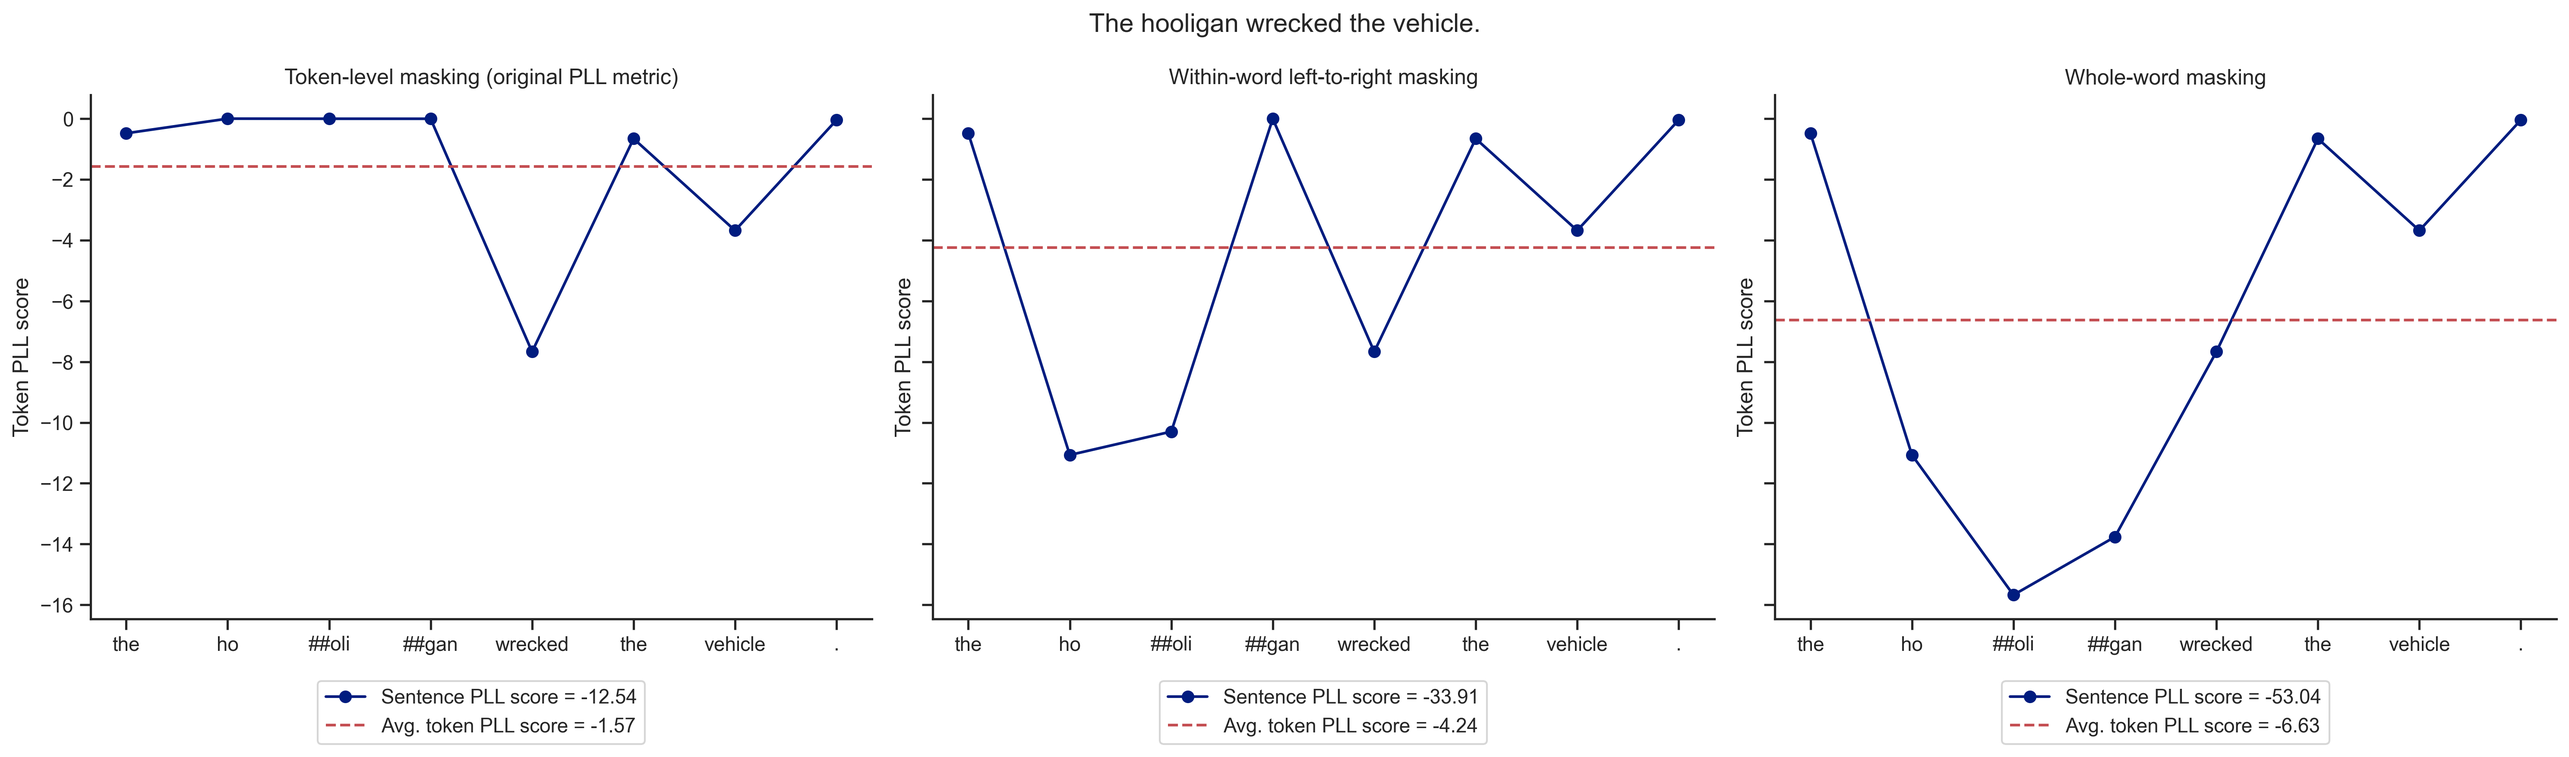
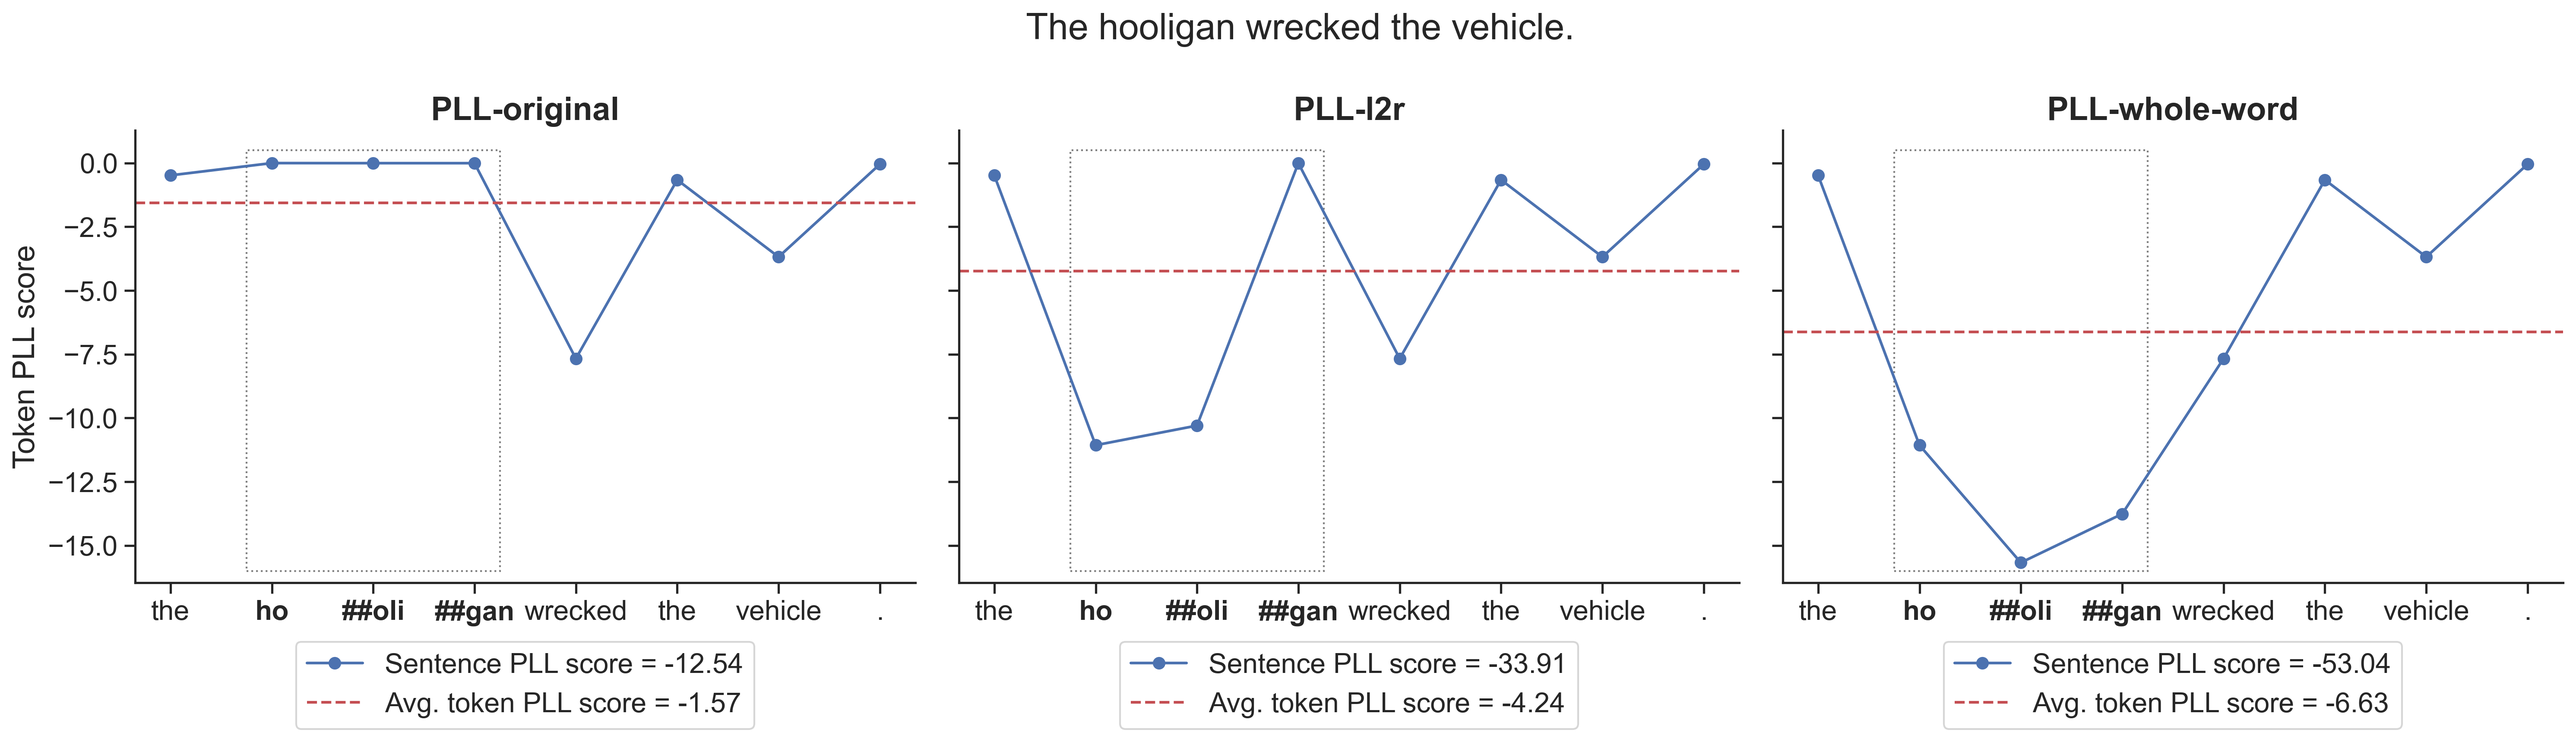
update result fig 1

diff --git a/carina/motivationForAdaptation_runScript.py b/carina/motivationForAdaptation_runScript.py
@@ -1,10 +1,15 @@
 from minicons import scorer
 import os
 
+WHICH_PLOT = "side-by-side"
+
 stimuli = ['The hooligan wrecked the vehicle.',
            'The vehicle wrecked the hooligan.',
            'The vehicle was wrecked by the hooligan.',
            'The hooligan was wrecked by the vehicle.']
+
+out_dir = "results/motivationForAdaptation/"
+os.makedirs(out_dir, exist_ok=True)
 
 
 ##################
@@ -37,150 +42,191 @@ custom_params = {"axes.spines.right": False,
                  'xtick.bottom': True,
                 'grid.linestyle': "" #gets rid of horizontal lines
                 }
-sns.set_theme(font_scale=1, style="white", rc=custom_params)
-plt.style.use('seaborn-dark-palette')
+sns.set_theme(font_scale=1.4, style="white", rc=custom_params)
+#plt.style.use('seaborn-dark-palette')
+
+import matplotlib.patches as patches
 
 ###################
 ## Individual plots
 ###################
 
-for sent_i, sent in enumerate(stimuli):
-    for which_masking in ["original", "within_word_l2r", "within_word_mlm"]:
-        print(f"which_masking={which_masking} | {sent}")
-        scores = mlm_model.token_score(sent, which_masking=which_masking)[0]
-        for score in scores:
-            print(f"{score[0]} | {score[1]}")
-        x = [elm[0] for elm in scores]
-        y = [elm[1] for elm in scores]
-        avg = np.mean(y)
+if WHICH_PLOT == "individual":
+    for sent_i, sent in enumerate(stimuli):
+        for which_masking in ["original", "within_word_l2r", "within_word_mlm"]:
+            print(f"which_masking={which_masking} | {sent}")
+            scores = mlm_model.token_score(sent, which_masking=which_masking)[0]
+            for score in scores:
+                print(f"{score[0]} | {score[1]}")
+            x = [elm[0] for elm in scores]
+            y = [elm[1] for elm in scores]
+            avg = np.mean(y)
 
-        fig, ax = plt.subplots()
-        plt.plot(y, marker="o", label=f"Sentence PLL score = {round(sum(y),2)}")
-        plt.xticks(np.arange(len(x)), np.arange(1, len(x) + 1))
-        ax.set_xticklabels(x)
-        plt.axhline(y=avg, color='r', linestyle='--', label=f"Avg. token PLL score = {round(avg, 2)}")
-        plt.legend(loc='upper center', bbox_to_anchor=(0.5, -0.1), fancybox=True, shadow=False, ncol=1)
-        plt.ylabel('Token PLL score')
-        if which_masking == "within_word_l2r":
-            plt.title("Adapted PLL metric with left-to-right word token masking")
-            savesuffix = 'adaptedPLL_l2r'
-        elif which_masking == "within_word_mlm":
-            plt.title("Adapted PLL metric with whole-word masking")
-            savesuffix = 'adaptedPLL_mlm'
-        else:
-            plt.title("Token-level masking (original PLL metric)")
-            savesuffix = 'originalPLL'
-        fig.tight_layout()
+            fig, ax = plt.subplots()
+            plt.plot(y, marker="o", label=f"Sentence PLL score = {round(sum(y),2)}")
+            plt.xticks(np.arange(len(x)), np.arange(1, len(x) + 1))
+            ax.set_xticklabels(x)
+            plt.axhline(y=avg, color='r', linestyle='--', label=f"Avg. token PLL score = {round(avg, 2)}")
+            plt.legend(loc='upper center', bbox_to_anchor=(0.5, -0.1), fancybox=True, shadow=False, ncol=1)
+            plt.ylabel('Token PLL score')
+            if which_masking == "within_word_l2r":
+                plt.title("Adapted PLL metric with left-to-right word token masking")
+                savesuffix = 'adaptedPLL_l2r'
+            elif which_masking == "within_word_mlm":
+                plt.title("Adapted PLL metric with whole-word masking")
+                savesuffix = 'adaptedPLL_mlm'
+            else:
+                plt.title("Token-level masking (original PLL metric)")
+                savesuffix = 'originalPLL'
+            fig.tight_layout()
 
-        out_dir = "results/motivationForAdaptation/"
-        os.makedirs(out_dir, exist_ok=True)
-        filename = f'{out_dir}/sent{sent_i+1}_{savesuffix}.png'
-        plt.savefig(filename, dpi=300, bbox_inches='tight')
-        plt.show()
-        print('\n')
+            filename = f'{out_dir}/sent{sent_i+1}_{savesuffix}.png'
+            plt.savefig(filename, dpi=300, bbox_inches='tight')
+            plt.show()
+            print('\n')
 
 ###################
 ## Subplots fig.
 ###################
 
-for sent_i, sent in enumerate(stimuli):
-    fig, axs = plt.subplots(1, 3, figsize=(20, 6), sharey=True)
-    for i, which_masking in enumerate(["original", "within_word_l2r", "within_word_mlm"]):
-        scores = mlm_model.token_score(sent, which_masking=which_masking)[0]
-        x = [elm[0] for elm in scores]
-        y = [elm[1] for elm in scores]
-        avg = np.mean(y)
+elif WHICH_PLOT == "side-by-side":
+    for sent_i, sent in enumerate(stimuli):
+        fig, axs = plt.subplots(1, 3, figsize=(20, 6), sharey=True)
+        ys = []
+        for i, which_masking in enumerate(["original", "within_word_l2r", "within_word_mlm"]):
+            scores = mlm_model.token_score(sent, which_masking=which_masking)[0]
+            x = [elm[0] for elm in scores]
+            y = [elm[1] for elm in scores]
+            ys.append(y)
+            avg = np.mean(y)
 
-        axs[i].plot(y, marker="o", label=f"Sentence PLL score = {round(sum(y), 2)}")
-        axs[i].set_xticks(np.arange(len(x)), np.arange(1, len(x) + 1), minor=False)
-        axs[i].set_xticklabels(x)
-        axs[i].axhline(y=avg, color='r', linestyle='--', label=f"Avg. token PLL score = {round(avg, 2)}")
-        axs[i].legend(loc='upper center', bbox_to_anchor=(0.5, -0.1), fancybox=True, shadow=False, ncol=1)
-        axs[i].set_ylabel('Token PLL score')
-        if which_masking == "within_word_l2r":
-            axs[i].set_title("Within-word left-to-right masking")
-            savesuffix = 'adaptedPLL_l2r'
-        elif which_masking == "within_word_mlm":
-            axs[i].set_title(f"Whole-word masking")
-            savesuffix = 'adaptedPLL_mlm'
-        else:
-            axs[i].set_title("Token-level masking (original PLL metric)")
-            savesuffix = 'originalPLL'
-    fig.suptitle(f"{sent}")
-    fig.tight_layout()
+            axs[i].plot(y, marker="o", label=f"Sentence PLL score = {round(sum(y), 2)}")
+            axs[i].set_xticks(np.arange(len(x)), np.arange(1, len(x) + 1), minor=False)
+            axs[i].set_xticklabels(x)
+            axs[i].axhline(y=avg, color='r', linestyle='--', label=f"Avg. token PLL score = {round(avg, 2)}")
+            axs[i].legend(loc='upper center', bbox_to_anchor=(0.5, -0.1), fancybox=True, shadow=False, ncol=1)
+            if i == 0:
+                axs[i].set_ylabel('Token PLL score')
+            else:
+                axs[i].set_ylabel('')
+            if which_masking == "within_word_l2r":
+                axs[i].set_title("PLL-l2r", fontsize=18, fontweight="bold")
+                savesuffix = 'adaptedPLL_l2r'
+            elif which_masking == "within_word_mlm":
+                axs[i].set_title(f"PLL-whole-word", fontsize=18, fontweight="bold")
+                savesuffix = 'adaptedPLL_mlm'
+            else:
+                axs[i].set_title("PLL-original", fontsize=18, fontweight="bold")
+                savesuffix = 'originalPLL'
 
-    out_dir = "results/motivationForAdaptation/"
-    os.makedirs(out_dir, exist_ok=True)
-    filename = f'{out_dir}/sent{sent_i + 1}_combined.png'
-    plt.savefig(filename, dpi=300, bbox_inches='tight')
-    plt.show()
-    print('\n')
+        # overlay shared with different color
+        # Find the indices where the three plots differ
+        indices = [i for y1 in ys for y2 in ys for i, a in enumerate(zip(y1, y2)) if a[0] != a[1]]
+        indices = sorted(np.unique(indices))
+
+        not_shared_x = [elm if elm in indices else None for elm in np.arange(len(x))]
+        not_shared_ys = []
+        for ind, y in enumerate(ys):
+            not_shared_ys.append([y[i] if i or i == 0 else None for i in not_shared_x])
+
+        for ind, ax in enumerate(axs):
+            #ax.plot(not_shared_x, not_shared_ys[ind], marker="o", color='r')
+
+            ymin, ymax = axs[ind].get_ylim()
+            x_ind = np.arange(1, len(x) + 1)
+            # Create a rectangle patch for the box
+            # matplotlib.patches.Rectangle(xy, width, height)
+            rect = patches.Rectangle([x_ind[indices[0]] - 1.25, int(ymin)],
+                                     indices[-1] - indices[0] + 0.5,
+                                     int(ymax) + 0.5 - int(ymin),
+                                     linewidth=1, edgecolor='gray', facecolor='none', ls=':')
+            ax.add_patch(rect)
+
+            bold_x = [x[i] if not_shared_x[i] else None for i in range(len(not_shared_x))]
+            for lab in ax.get_xticklabels():
+                if lab.get_text() in bold_x:
+                    lab.set_fontweight('bold')
+
+        plt.ylim(ymin, ymax + 0.5)
+
+        fig.suptitle(f"{sent}")
+        fig.tight_layout()
+
+        out_dir = "results/motivationForAdaptation/"
+        os.makedirs(out_dir, exist_ok=True)
+        filename = f'{out_dir}/sent{sent_i + 1}_combined.png'
+        plt.savefig(filename, dpi=300, bbox_inches='tight')
+        plt.show()
+        print('\n')
 
 ###################
 ## Overlaid plots
 ###################
 
-import matplotlib.patches as patches
+elif WHICH_PLOT == "overlaid":
 
-marker_dict = {
-    "original" : "o",
-    "within_word_l2r" : "P",
-    "within_word_mlm" : "p"
-}
+    marker_dict = {
+        "original" : "o",
+        "within_word_l2r" : "P",
+        "within_word_mlm" : "p"
+    }
 
-for sent_i, sent in enumerate(stimuli):
-    fig, ax = plt.subplots()
-    ys = []
-    for i, which_masking in enumerate(["original", "within_word_l2r", "within_word_mlm"]):
-        scores = mlm_model.token_score(sent, which_masking=which_masking)[0]
-        x = [elm[0] for elm in scores]
-        y = [elm[1] for elm in scores]
-        ys.append(y)
+    for sent_i, sent in enumerate(stimuli):
+        fig, ax = plt.subplots()
+        ys = []
+        for i, which_masking in enumerate(["original", "within_word_l2r", "within_word_mlm"]):
+            scores = mlm_model.token_score(sent, which_masking=which_masking)[0]
+            x = [elm[0] for elm in scores]
+            y = [elm[1] for elm in scores]
+            ys.append(y)
 
-        # Plot the data
-        if which_masking == "within_word_l2r":
-            label = "Within-word left-to-right masking"
-        elif which_masking == "within_word_mlm":
-            label = "Whole-word masking"
-        else:
-            label = "Original PLL metric (token-level masking)"
+            # Plot the data
+            if which_masking == "within_word_l2r":
+                label = "Within-word left-to-right masking"
+            elif which_masking == "within_word_mlm":
+                label = "Whole-word masking"
+            else:
+                label = "Original PLL metric (token-level masking)"
 
-        ax.plot(y, marker=marker_dict[which_masking], label=f"{label} | Sentence PLL score = {round(sum(y), 2)}")
+            ax.plot(y, marker=marker_dict[which_masking], label=f"{label} | Sentence PLL score = {round(sum(y), 2)}")
 
-    plt.xticks(np.arange(len(x)), np.arange(1, len(x) + 1))
-    ax.set_xticklabels(x)
-    plt.ylabel('Token PLL score')
+        plt.xticks(np.arange(len(x)), np.arange(1, len(x) + 1))
+        ax.set_xticklabels(x)
+        plt.ylabel('Token PLL score')
 
-    # Find the indices where the three plots differ
-    indices = [i for y1 in ys for y2 in ys for i, a in enumerate(zip(y1, y2)) if a[0] != a[1]]
-    indices = sorted(np.unique(indices))
+        # Find the indices where the three plots differ
+        indices = [i for y1 in ys for y2 in ys for i, a in enumerate(zip(y1, y2)) if a[0] != a[1]]
+        indices = sorted(np.unique(indices))
 
-    shared_x = [elm if elm not in indices else None for elm in np.arange(len(x))]
-    shared_y = [y[i] if i or i == 0 else None for i in shared_x]
-    plt.plot(shared_x, shared_y, color='gray', marker="s", label="Token scores shared across metrics")
+        shared_x = [elm if elm not in indices else None for elm in np.arange(len(x))]
+        shared_y = [y[i] if i or i == 0 else None for i in shared_x]
+        plt.plot(shared_x, shared_y, color='gray', marker="s", label="Token scores shared across metrics")
 
-    ymin, ymax = ax.get_ylim()
-    x = np.arange(1, len(x) + 1)
+        ymin, ymax = ax.get_ylim()
+        x = np.arange(1, len(x) + 1)
 
-    # Create a rectangle patch for the box
-    # matplotlib.patches.Rectangle(xy, width, height)
-    rect = patches.Rectangle([x[indices[0]] - 2.25 , int(ymin)],
-                             indices[-1] - indices[0] + 2.5,
-                             int(ymax) + 0.5 - int(ymin),
-                             linewidth=1, edgecolor='k', facecolor='none', ls='--')
+        # Create a rectangle patch for the box
+        # matplotlib.patches.Rectangle(xy, width, height)
+        rect = patches.Rectangle([x[indices[0]] - 2.25 , int(ymin)],
+                                 indices[-1] - indices[0] + 2.5,
+                                 int(ymax) + 0.5 - int(ymin),
+                                 linewidth=1, edgecolor='k', facecolor='none', ls='--')
 
-    # Add the rectangle patch to the plot
-    ax.add_patch(rect)
-    plt.ylim(ymin, ymax + 0.5)
+        # Add the rectangle patch to the plot
+        ax.add_patch(rect)
+        plt.ylim(ymin, ymax + 0.5)
 
-    # Add legend & title
-    #ax.legend(loc='upper center', bbox_to_anchor=(0.5, -0.1), fancybox=True, shadow=False, ncol=1)
-    ax.legend(loc='upper center', bbox_to_anchor=(0.5, -0.1), frameon=False, ncol=1)
+        # Add legend & title
+        #ax.legend(loc='upper center', bbox_to_anchor=(0.5, -0.1), fancybox=True, shadow=False, ncol=1)
+        ax.legend(loc='upper center', bbox_to_anchor=(0.5, -0.1), frameon=False, ncol=1)
 
-    # Save the plot
-    plt.tight_layout()
-    filename = f'{out_dir}/sent{sent_i + 1}_overlaid.png'
-    plt.savefig(filename, dpi=300, bbox_inches='tight')
+        # Save the plot
+        plt.tight_layout()
+        filename = f'{out_dir}/sent{sent_i + 1}_overlaid.png'
+        plt.savefig(filename, dpi=300, bbox_inches='tight')
 
-    # Show the plot
-    plt.show()
+        # Show the plot
+        plt.show()
+
+else:
+    raise NotImplementedError
